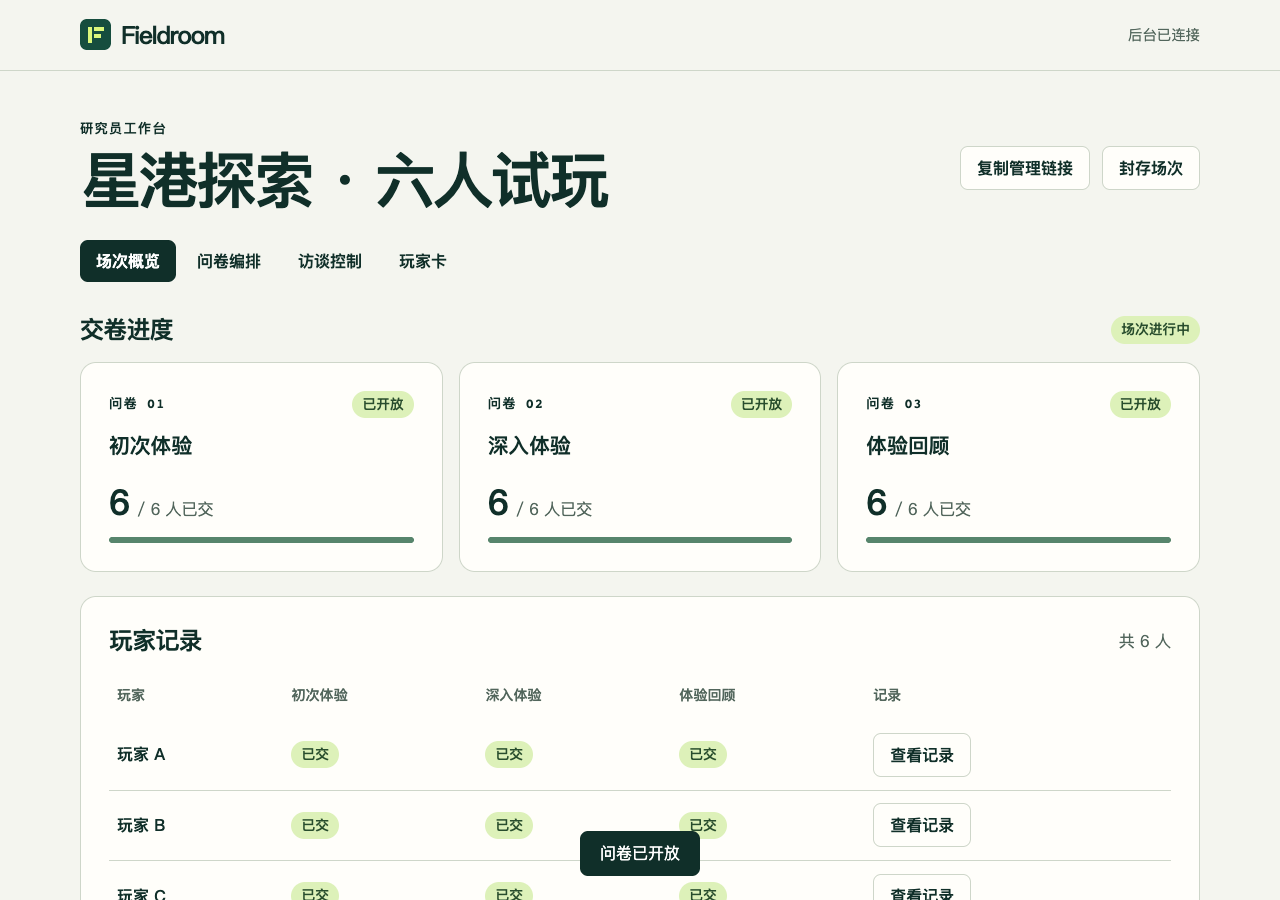
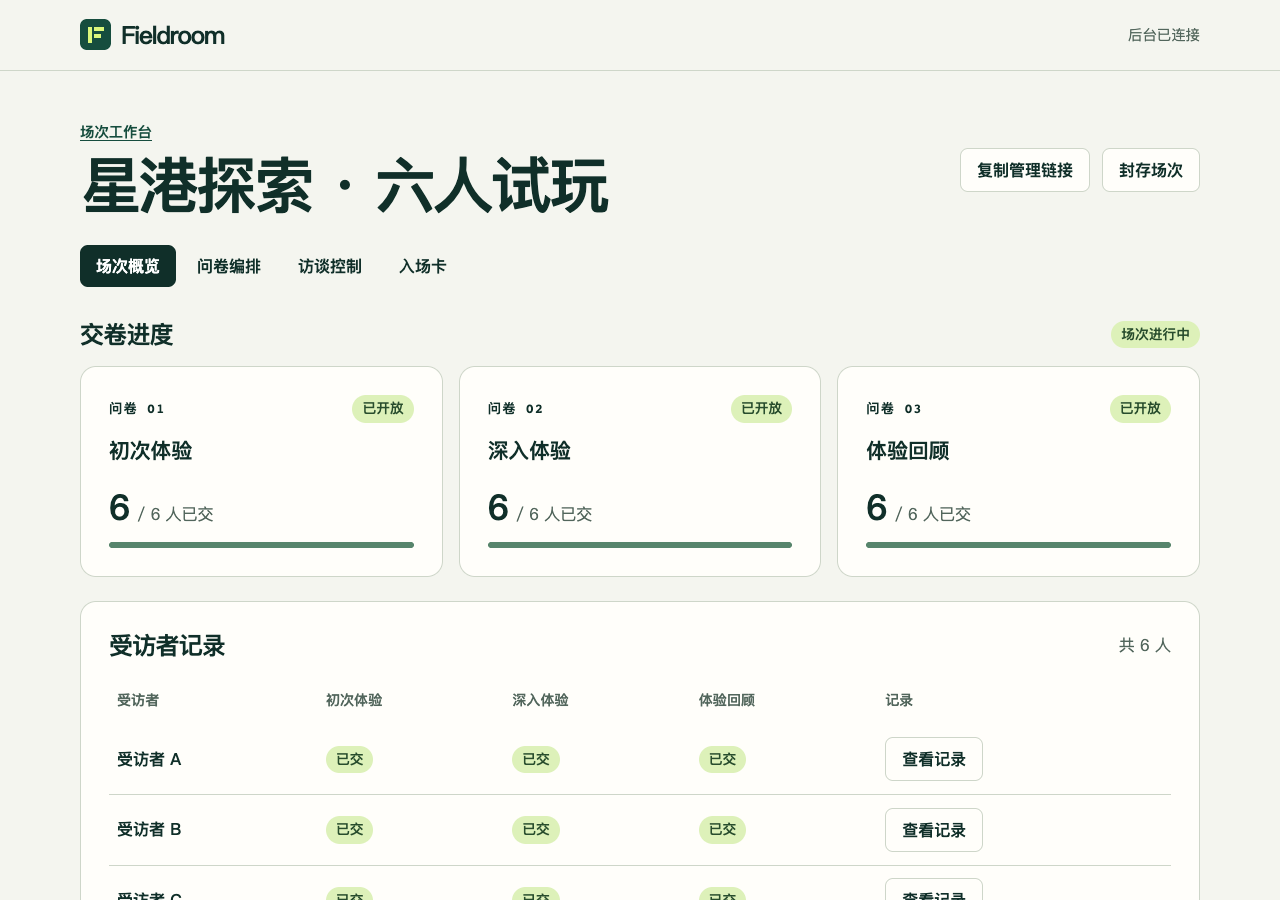
Use participant labels and illustrate field interviews with live case screenshots

diff --git a/static/admin.js b/static/admin.js
@@ -150,7 +150,7 @@ function shell() {
 }
 
 const sections = [
-  ["overview", "场次概览"], ["forms", "问卷编排"], ["interview", "访谈控制"], ["cards", "玩家卡"]
+  ["overview", "场次概览"], ["forms", "问卷编排"], ["interview", "访谈控制"], ["cards", "入场卡"]
 ];
 function render() {
   const room = state.room;
@@ -182,8 +182,8 @@ function overviewView() {
   return `<section class="stack"><div class="section-head"><h2>交卷进度</h2>
     ${statusBadge(sealed ? "场次已封存" : interviews.length ? `${interviews.length} 组访谈进行中` : "场次进行中", !sealed)}</div>
     <div class="progress-grid">${cards}</div></section>
-    <section class="panel admin-section"><div class="section-head"><h2>玩家记录</h2><span class="muted">共 ${players.length} 人</span></div>
-    <div class="table-wrap"><table><thead><tr><th>玩家</th>${forms.map(form => `<th>${escapeHTML(form.title)}</th>`).join("")}<th>记录</th></tr></thead>
+    <section class="panel admin-section"><div class="section-head"><h2>受访者记录</h2><span class="muted">共 ${players.length} 人</span></div>
+    <div class="table-wrap"><table><thead><tr><th>受访者</th>${forms.map(form => `<th>${escapeHTML(form.title)}</th>`).join("")}<th>记录</th></tr></thead>
     <tbody>${rows}</tbody></table></div></section>`;
 }
 function formsView() {
@@ -288,13 +288,13 @@ function interviewView() {
   return directory + `<section class="panel admin-section interview-control"><div class="section-head"><h2>${escapeHTML(caption)}</h2>
     ${group ? actionButton("end","结束访谈") : ""}</div>
     <div class="control-group"><h3>受访者</h3><div class="row target-list">${pickers}</div></div>
-    ${conflicts.length ? `<div class="row"><small>所选玩家中有人已加入其他组。</small>${actionButton("remove-occupied","移除已占用的选择")}</div>` : ""}
+    ${conflicts.length ? `<div class="row"><small>所选受访者中有人已加入其他组。</small>${actionButton("remove-occupied","移除已占用的选择")}</div>` : ""}
     <label class="field">访谈题目<select id="preview-question"${room.sealed || !options ? " disabled" : ""}>
     ${question ? "" : `<option value="" selected>${options ? "请选择题目" : "请先开放一份问卷"}</option>`}${options}</select></label>
     <div class="preview-line"><div><strong>${escapeHTML(progress)}</strong>
     ${missing.length ? `<small>未交卷 · ${escapeHTML(missing.map(p=>p.name).join("、"))}</small>` : ""}</div>
     ${actionButton("show","向受访者展示",{style:"primary",disabled:unavailable})}</div>
-    ${selected.length > 6 ? '<p class="muted">每次访谈最多选择六位玩家。</p>' : ""}</section>
+    ${selected.length > 6 ? '<p class="muted">每次访谈最多选择六位受访者。</p>' : ""}</section>
     ${group ? supplementList(group) : ""}`;
 }
 function supplementList(group) {
@@ -316,15 +316,15 @@ async function endInterview() {
   rememberInterview(null);
   state.previewDirty = false;
   await loadRoom();
-  toast("访谈已结束，玩家可继续填写");
+  toast("访谈已结束，受访者可继续填写");
 }
 function cardsView() {
-  return `<section class="stack"><div class="section-head no-print"><h2>玩家入场卡</h2>${actionButton("print","打印玩家卡")}</div>
-    <p class="muted no-print">让玩家连接场内 Wi-Fi，扫描自己的卡。换机时重新扫码。</p>
+  return `<section class="stack"><div class="section-head no-print"><h2>受访者入场卡</h2>${actionButton("print","打印入场卡")}</div>
+    <p class="muted no-print">让受访者连接场内 Wi-Fi，扫描自己的卡。换机时重新扫码。</p>
     <div id="cards-grid" class="player-cards">${state.room.players.map(p => `<article class="card player-card">
     <p class="eyebrow">${escapeHTML(state.room.title)}</p><h3>${escapeHTML(p.name)}</h3>
     <div class="card-qr" data-qr-for="${escapeHTML(p.id)}" aria-label="${escapeHTML(p.name)}的二维码">二维码生成中…</div>
-    <div class="no-print">${actionButton("copy-player", "复制玩家链接", {value:p.id})}</div></article>`).join("")}</div></section>`;
+    <div class="no-print">${actionButton("copy-player", "复制受访者链接", {value:p.id})}</div></article>`).join("")}</div></section>`;
 }
 async function fillQRCodes() {
   const epoch = ++state.qrEpoch;
@@ -493,7 +493,7 @@ async function showDetail(id) {
 async function showSupplement(id) {
   const live = activeInterview();
   const question = byId(questions(), live?.qid);
-  if (!question || !live.players.includes(id)) throw new Error("访谈题目已更改，请重新选择玩家。");
+  if (!question || !live.players.includes(id)) throw new Error("访谈题目已更改，请重新选择受访者。");
   const p = byId(state.room.players, id);
   const details = await adminRead("/api/manage/player?id=" + encodeURIComponent(id));
   const submitted = details.submitted.includes(question.form.id);

diff --git a/static/app.js b/static/app.js
@@ -11,16 +11,16 @@ function renderHome() {
   document.querySelector('#status').textContent = '研究员工作台';
   app.innerHTML = `<div class="wrap home">
     <section class="intro"><div class="intro-copy"><p class="eyebrow">FIELDROOM / 现场研究室</p>
-      <h1>线下游戏用研<span>场次工作台</span></h1>
-      <p class="lede">在同一 Wi-Fi 下分发问卷、查看玩家答卷，并在访谈中同步展示每个人的回答。</p>
+      <h1>线下用户研究<span>场次工作台</span></h1>
+      <p class="lede">在同一 Wi-Fi 下分发问卷、查看受访者答卷，并在访谈中同步展示每个人的回答。</p>
     </div><div class="specimen" aria-hidden="true">
-      <div class="sheet shadow-sheet"></div><div class="sheet main-sheet"><span class="sheet-head">FIELDROOM <b>玩家 A</b></span>
-      <div class="sheet-lines"><i></i><i></i></div><strong>游玩意愿</strong><div class="mini-scores"><i>1</i><i>2</i><i>3</i><i>4</i><i>5</i></div></div>
+      <div class="sheet shadow-sheet"></div><div class="sheet main-sheet"><span class="sheet-head">FIELDROOM <b>受访者 A</b></span>
+      <div class="sheet-lines"><i></i><i></i></div><strong>使用意愿</strong><div class="mini-scores"><i>1</i><i>2</i><i>3</i><i>4</i><i>5</i></div></div>
     </div></section>
     <div class="home-columns"><section class="panel create-panel"><h2>新建场次</h2>
     <form id="create" class="stack"><label class="field">场次名称<input name="title" placeholder="例如：星港探索 · 首轮试玩" required maxlength="100" autocomplete="off"></label>
-    <label class="field">玩家人数<input name="count" type="number" value="6" min="1" max="200" required></label>
-    <p class="muted hint">每位玩家将获得独立的扫码卡。</p>
+    <label class="field">受访者人数<input name="count" type="number" value="6" min="1" max="200" required></label>
+    <p class="muted hint">每位受访者都有一张自己的入场卡。</p>
     <button class="btn primary" type="submit">创建场次</button></form></section>
     <section class="panel recent-panel"><h2>最近场次</h2>` +
     (recent.length ? recent.map(room => `<a class="recent-item" href="/manage#${encodeURIComponent(room.admin)}"><strong>${esc(room.title)}</strong><small>${esc(room.date)}</small></a>`).join('') :
@@ -50,7 +50,7 @@ try {
     const mod = await import('./' + moduleName + '.js');
     await mod.start();
   } else if (page === '/join') {
-    app.innerHTML = '<section class="panel join"><p class="eyebrow">玩家入口</p><h1>请扫玩家卡</h1><p>用相机扫描自己的二维码，或打开研究员分配的专属链接。</p></section>';
+    app.innerHTML = '<section class="panel join"><p class="eyebrow">受访者入口</p><h1>请扫入场卡</h1><p>用相机扫描自己的二维码，或打开研究员分配的专属链接。</p></section>';
   } else { renderHome(); }
 } catch (error) {
   app.innerHTML = '<div class="wrap"><section class="panel"><h2>暂时无法打开</h2><p>' + esc(error.message) + '</p><button class="btn" id="retry">重新连接</button></section></div>';

diff --git a/static/player.js b/static/player.js
@@ -212,7 +212,7 @@ function heading() {
 }
 
 function tabs() {
-  return '<nav class="player-tabs" aria-label="玩家工作区">' +
+  return '<nav class="player-tabs" aria-label="受访者工作区">' +
     [["form", "我的问卷"], ["notes", "体验问题"]].map(([id, title]) =>
       '<button type="button" data-tab="' + id + '" aria-pressed="' + (view.tab === id) + '">' + title + "</button>"
     ).join("") + "</nav>";

diff --git a/server.py b/server.py
@@ -231,10 +231,14 @@ def question(label, kind, options=None, required=True):
     return dict(id=identifier(), label=label, type=kind, options=options or [], required=required)
 
 
+def participant_suffix(position):
+    return chr(65 + position) if position < 26 else str(position + 1)
+
+
 def create_room(db, data):
     title = short(data.get("title"), "场次名称", 100)
     count = data.get("count", 6)
-    require(type(count) is int and 1 <= count <= 200, "玩家人数需为 1 至 200")
+    require(type(count) is int and 1 <= count <= 200, "受访者人数需为 1 至 200")
     room, admin = identifier(), token()
     db.execute("INSERT INTO rooms(id,admin,title) VALUES(?,?,?)", (room, admin, title))
     forms = [
@@ -266,10 +270,10 @@ def create_room(db, data):
             (identifier(), room, pos, name, dump(questions)),
         )
     for pos in range(count):
-        name = chr(65 + pos) if pos < 26 else str(pos + 1)
+        name = participant_suffix(pos)
         db.execute(
             "INSERT INTO players(id,room,position,name,code) VALUES(?,?,?,?,?)",
-            (identifier(), room, pos, "玩家 " + name, token()),
+            (identifier(), room, pos, "受访者 " + name, token()),
         )
     return {"admin": admin}
 
@@ -373,7 +377,7 @@ def player_record(db, player, *, include_history=False, before_history=None):
 
 def managed_player(db, room, player):
     row = db.execute("SELECT * FROM players WHERE room=? AND id=?", (room, player)).fetchone()
-    require(row, "找不到该玩家", 404)
+    require(row, "找不到该受访者", 404)
     return row
 
 
@@ -414,13 +418,13 @@ def update_interview(db, room, body):
     else:
         form, question = find_question(db, room["id"], body.get("qid"))
         players = body.get("players")
-        require(isinstance(players, list) and 1 <= len(players) <= 6, "每次访谈请选择 1 至 6 位玩家")
+        require(isinstance(players, list) and 1 <= len(players) <= 6, "每次访谈请选择 1 至 6 位受访者")
         require(len(players) == len(set(players)), "请勿重复选择受访者")
         for pid in players:
             managed_player(db, room["id"], pid)
         require(form["open"], "请先开放这份问卷，再展示题目", 409)
         occupied = {pid for group in groups if group is not current for pid in group["players"]}
-        require(occupied.isdisjoint(players), "所选玩家正在另一场访谈，请刷新后重新选择", 409)
+        require(occupied.isdisjoint(players), "所选受访者正在另一场访谈，请刷新后重新选择", 409)
         if current is None:
             current = {"id": identifier()}
             groups.append(current)
@@ -433,6 +437,14 @@ def update_interview(db, room, body):
     return result
 
 
+def participant_label(player):
+    # Older rooms stored the generated role in the name. Keep custom names intact.
+    suffix = participant_suffix(player["position"])
+    if player["name"] == "玩家 " + suffix:
+        return "受访者 " + suffix
+    return player["name"]
+
+
 def manage_state(db, room, base):
     groups = active_interviews(room)
     by_player = {}
@@ -442,7 +454,7 @@ def manage_state(db, room, base):
     ):
         by_player.setdefault(r["player"], []).append(r["form"])
     players = [
-        dict(id=p["id"], name=p["name"], code=p["code"], submitted=by_player.get(p["id"], []))
+        dict(id=p["id"], name=participant_label(p), code=p["code"], submitted=by_player.get(p["id"], []))
         for p in db.execute("SELECT * FROM players WHERE room=? ORDER BY position", (room["id"],))
     ]
     return dict(
@@ -482,7 +494,7 @@ def play_state(db, room, player):
     return dict(
         **data,
         id=player["id"],
-        name=player["name"],
+        name=participant_label(player),
         title=room["title"],
         sealed=bool(room["sealed"]),
         rev=player["rev"],
@@ -723,7 +735,7 @@ def handle(h, method, path, query, body):
             return create_room(db, body)
         if method == "POST" and path == "/api/claim":
             player = db.execute("SELECT * FROM players WHERE code=?", (body.get("code"),)).fetchone()
-            require(player, "玩家卡无效，请重新扫码", 401)
+            require(player, "入场卡无效，请重新扫码", 401)
             device = token()
             db.execute("UPDATE players SET device=? WHERE id=?", (device, player["id"]))
             # Obsolete leases are checked before any replay receipt or write.
@@ -778,7 +790,7 @@ def share_base(bind_host, port):
 
 
 def main():
-    parser = argparse.ArgumentParser(description="本地线下游戏用研问卷平台")
+    parser = argparse.ArgumentParser(description="本地线下用户研究问卷与访谈平台")
     parser.add_argument("--host", default="0.0.0.0", help="默认在局域网提供服务")
     parser.add_argument("--port", type=int, default=8765)
     parser.add_argument("--db", type=Path, default=DEFAULT_DB)

diff --git a/tests/test_service.py b/tests/test_service.py
@@ -112,6 +112,14 @@ class ServiceTests(unittest.TestCase):
         self.play(op="answer", qid=self.choice["id"], value=self.choice["options"][0])
         self.play(op="submit", form=self.form["id"])
 
+    def test_old_generated_names_use_the_current_label_on_both_screens(self):
+        with server.connection(self.db, write=True) as db:
+            db.execute("UPDATE players SET name=? WHERE id=?", ("玩家 A", self.cards[0]["id"]))
+            db.execute("UPDATE players SET name=? WHERE id=?", ("访客小蓝", self.cards[1]["id"]))
+        roster = self.call("/api/manage", key=self.admin)["players"]
+        self.assertEqual([p["name"] for p in roster[:2]], ["受访者 A", "访客小蓝"])
+        self.assertEqual(self.call("/api/play", key=self.key)["name"], "受访者 A")
+
     def test_takeover_invalidates_stale_writes_even_after_reopen(self):
         self.submitted()
         self.play(op="note", id="stable-note", text="虚构草稿", submitted=False)

diff --git a/docs/field-guide.md b/docs/field-guide.md
@@ -1,20 +1,20 @@
 # 现场使用手册
 
 1. **准备。** 新建场次，默认六人。三份问卷各带两道虚构示例题。在「问卷编排」中增删题目、调整顺序、选择题型及必答状态，按现场进度逐份开放。
-2. **分卡。** 在「玩家卡」打印卡片或复制专属链接。研究团队通过「复制管理链接」共用后台。保管好管理链接；当前浏览器的「最近场次」也可返回。
-3. **填答。** 玩家首次完成整份问卷时点「提交问卷」。此后选择或评分点选即保存，文本停笔自动保存。进入「体验问题」可边玩边记，后台区分同步中的草稿和已提交问题。
-4. **访谈。** 在「访谈控制」选受访者和题目，检查已交人数，再点「向受访者展示」。可以邀请一人单访，或同时邀请最多六人。浏览题目或查看玩家记录时，其他设备保持当前页面。
-   同场可并行开组。例如先选择 A 开始单访，再点「新建访谈」，选择 B–F 开始群访。后台列出各组成员和当前题，两位主持人可打开同一管理链接，各自选择一组。展示、追加记录和结束访谈都针对选中的组；已有访谈的玩家会标为占用。
-   玩家在展示页点「回看我的问卷」会打开当前题所在的问卷，也可切换到其他已开放问卷。点「返回访谈」即可重新跟题；主持人切到另一道题时，设备会先同步修改再跟过去。关闭页面后可重新打开原卡链接。
-5. **收尾。** 「结束访谈」让玩家继续原来的填写。所有访谈结束后，「封存场次」让整场只读，研究员可重新开放。随时在「场次概览 → 查看记录」回看答案、随手记、作答历史及访谈补充。
+2. **分卡。** 在「入场卡」打印卡片或复制专属链接。研究团队通过「复制管理链接」共用后台。保管好管理链接；当前浏览器的「最近场次」也可返回。
+3. **填答。** 受访者首次完成整份问卷时点「提交问卷」。此后选择或评分点选即保存，文本停笔自动保存。进入「体验问题」可边玩边记，后台区分同步中的草稿和已提交问题。
+4. **访谈。** 在「访谈控制」选受访者和题目，检查已交人数，再点「向受访者展示」。可以邀请一人单访，或同时邀请最多六人。浏览题目或查看受访者记录时，其他设备保持当前页面。
+   同场可并行开组。例如先选择 A 开始单访，再点「新建访谈」，选择 B–F 开始群访。后台列出各组成员和当前题，两位主持人可打开同一管理链接，各自选择一组。展示、追加记录和结束访谈都针对选中的组；已有访谈的受访者会标为占用。
+   受访者在展示页点「回看我的问卷」会打开当前题所在的问卷，也可切换到其他已开放问卷。点「返回访谈」即可重新跟题；主持人切到另一道题时，设备会先同步修改再跟过去。关闭页面后可重新打开原卡链接。
+5. **收尾。** 「结束访谈」让受访者继续原来的填写。所有访谈结束后，「封存场次」让整场只读，研究员可重新开放。随时在「场次概览 → 查看记录」回看答案、随手记、作答历史及访谈补充。
 
 ## 已确认的现场规则
 
 | 情况 | 行为 |
 |---|---|
-| 临时切题 | 受访设备先把待写内容同步成功，再展示题目和本人最近提交、保存的答案。没有交该卷的玩家显示「暂无已提交答案」。|
-| 玩家改答案 | 玩家可直接更改已交答案。后台保留当时的题目、版本、值和时间。选项固定单选，评分使用 1 至 5，开放文本可设为必答或选填。|
-| 访谈中改口 | 主持人按玩家和题目追加新评分及原因，或只记录解释。玩家显示的问卷答案由玩家的作答决定。|
+| 临时切题 | 受访设备先把待写内容同步成功，再展示题目和本人最近提交、保存的答案。没有交该卷的受访者显示「暂无已提交答案」。|
+| 受访者改答案 | 受访者可直接更改已交答案。后台保留当时的题目、版本、值和时间。选项固定单选，评分使用 1 至 5，开放文本可设为必答或选填。|
+| 访谈中改口 | 主持人按受访者和题目追加新评分及原因，或只记录解释。受访者显示的问卷答案由受访者的作答决定。|
 | 现场改题 | 已开放的问卷仍可编辑；已交时的题干、选项和答案保存在快照中，多人同时编辑同一问卷会提示版本冲突。|
 | 临时换机 | 用原卡在新设备扫码接手，恢复已上传的内容及当前访谈。旧设备在线时回到扫码页，离线旧设备重连时失去写入权限。|
 | 临时断网 | 已打开页面的待发操作保存在当前标签页，恢复连接后补传。完全离线时首次加载网页需要等网络恢复。未同步的内容只能在原标签页恢复；换机以主机已收到的内容为准。|

diff --git a/docs/acceptance.md b/docs/acceptance.md
@@ -1,16 +1,16 @@
 # 首版验收
 
-2026-11-21 在 macOS、Python 3.14、桌面 Chrome 157 上运行。题目、场次和玩家均为虚构。研究员使用单独的管理会话，六位玩家分别使用隔离浏览器上下文，换机时另开第七个玩家上下文。
+2026-11-21 在 macOS、Python 3.14、桌面 Chrome 157 上运行。题目、场次和受访者均为虚构。研究员使用单独的管理会话，六位受访者分别使用隔离浏览器上下文，换机时另开第七个受访者上下文。
 
 | 检查 | 实测结果 |
 |---|---|
-| 分卡与交卷 | 从页面上渲染的六张二维码逐张解码，其地址分别进入 A–F 六位玩家的会话。研究员逐份开放，六人共交 18 份问卷、提交 6 条体验问题。后台三份均显示 6/6。 |
+| 分卡与交卷 | 从页面上渲染的六张二维码逐张解码，其地址分别进入 A–F 六位受访者的会话。研究员逐份开放，六人共交 18 份问卷、提交 6 条体验问题。后台三份均显示 6/6。 |
 | 跨卷群访 | 先向六人展示第三份问卷中的题目，再跳到第一份的「你有多愿意再玩一局？」。A–F 设备分别显示 2、4、3、5、1、4。 |
-| 玩家自行回看 | A 在群访中打开当前题所属问卷，看到已交的 2 分；刷新仍保留回看位置，另外五人继续跟题。A 可自行返回访谈，也可切到其他问卷修改文字。主持人切题后展示同步后的新文字，结束访谈后仍能回看。 |
+| 受访者自行回看 | A 在群访中打开当前题所属问卷，看到已交的 2 分；刷新仍保留回看位置，另外五人继续跟题。A 可自行返回访谈，也可切到其他问卷修改文字。主持人切题后展示同步后的新文字，结束访谈后仍能回看。 |
 | 同场并行访谈 | 两个独立主持人页面共用同一管理链接。A 单访、B–F 五人群访同时展示不同题目。任一后台可查看两组成员和当前题；单访切题后群访继续原题。结束单访时 A 回到答卷，群访仍可继续切题。两组均结束后可封存场次。 |
-| 单访与未交卷 | 单独选中尚未交卷的玩家时，该玩家显示「暂无已提交答案」，未选中的设备仍停在填写页。 |
+| 单访与未交卷 | 单独选中尚未交卷的受访者时，该受访者显示「暂无已提交答案」，未选中的设备仍停在填写页。 |
 | 访谈补充 | A 口头改为 4 分，主持人追加原因。后台出现补充，A 的答卷仍为 2 分。 |
-| 自然保存 | 玩家写到一半时触发访谈，草稿同步后才跳题。结束访谈后恢复原文字和输入位置。阻断写请求再刷新，恢复网络后仍能补传。中文输入法流程使用合成浏览器事件验证。 |
+| 自然保存 | 受访者写到一半时触发访谈，草稿同步后才跳题。结束访谈后恢复原文字和输入位置。阻断写请求再刷新，恢复网络后仍能补传。中文输入法流程使用合成浏览器事件验证。 |
 | 换机与旧草稿 | A 的旧设备断网并产生未同步的 1 分。新设备用原卡进入正在进行的访谈，取回已保存的 2 分及答卷，之后直接改为 5 分。旧设备重连退出，后台保持 5 分并保留原记录。 |
 | 收场 | 结束访谈后仍可填改；封存后问卷只读。重新开放后，原卡恢复编辑。 |
 | 后台编辑 | 验证新增、移除、调序及修改已开放题目，两名管理者同时编辑时识别冲突；原题快照与删除前的已交答案可回看。已用超过 50 条的修改历史验证翻页。 |
@@ -18,10 +18,10 @@
 
 六人浏览器流程可按[开发文档里的步骤](development.md#重跑验收)重跑。服务回归覆盖设备权限、跨场次隔离、写入重试、历史与分页、未交访谈、校验和分享地址选择。额外的同机请求测量使用六个并发客户端，每种接口 60 个请求。已有 10,002 条历史记录时，版本检查、个人状态和后台单人详情的第 95 百分位分别约为 3、4、12 毫秒。此项只测本机服务响应，现场同步还受局域网、浏览器调度和约一秒的版本检查间隔影响。
 
-额外用 200 名虚构玩家组成 40 组并行访谈。切换其中一组后，另 39 组各抽查一名玩家，状态版本和展示题均保持原值。
+额外用 200 名虚构受访者组成 40 组并行访谈。切换其中一组后，另 39 组各抽查一名受访者，状态版本和展示题均保持原值。
 
 ![研究员可在两组进行中的访谈间切换](parallel-interviews.png)
 
 ![三份问卷各有六人交卷](session-overview.png)
 
-![手机尺寸浏览器显示玩家 A 自己的 2 分](player-interview.png)
+![手机尺寸浏览器显示受访者 A 自己的 2 分](player-interview.png)

diff --git a/README.md b/README.md
@@ -1,19 +1,35 @@
 # Fieldroom · 现场研究室
 
-Fieldroom 是给线下游戏试玩用的问卷和访谈工具。玩家玩完一局，扫自己的卡填问卷；研究员马上能看到谁交了、每个人答了什么。聊到某道题时，主持人点一下，每位受访玩家的屏幕上就会出现**那道题和自己填的答案**。
+![Fieldroom 首页封面：线下用户研究场次工作台](docs/cover.png)
 
-## 一场六人试玩怎么用？
+Fieldroom 给做线下用户研究的人用。受访者用手机扫自己的卡，体验一轮，填一份问卷。研究员能马上看到谁交了、每个人写了什么。到了访谈环节，主持人选一道题，每个人的屏幕上都会出现**同一道题和自己当时的回答**。
 
-1. **开场前**，研究员准备三份问卷。可以让玩家选一个选项、打 1 到 5 分，或者写几句话。六位玩家各领一张卡，手机、平板和电脑都能打开自己的问卷。
-2. **试玩时**，第一局结束就开放第一份问卷。玩家交完继续玩，碰到问题可以随手记，比如“第二局没找到换武器的入口”。到了下一轮，研究员再开放第二、三份问卷。中途换手机，扫原来的卡就能找回已保存的答案。
-3. **访谈时**，主持人可以跳回第一份问卷，问“你有多愿意再玩一局？”A 的屏幕上显示自己给的 2 分，B 看到自己给的 4 分。如果 A 说“现在我想给 4 分了”，主持人可以把新评分和原因记在 A 名下，旁边仍能查到原来的 2 分。A 也可以点「回看我的问卷」，翻看自己当时写了什么。
+## 游戏试玩：同样玩了一局，为什么一个人给 2 分，另一个给 4 分？
 
-同一场试玩可以分开聊。比如一位主持人单独问 A，另一位同时和 B–F 做群访。后台能看到两组各自在聊哪道题，每组可以自己切题、自己结束。
+六位玩家试玩《星港探索》。第一局结束后，研究员开放第一份问卷；玩家交完继续玩，遇到问题可以随手记。中途换手机，扫原来的卡就能找回已保存的答案。
+
+访谈时，主持人跳回「你有多愿意再玩一局？」。A 看见自己给的 2 分，B 看见自己的 4 分。如果 A 说“第二局弄懂连招以后，我想改给 4 分”，主持人可以把这句话记在 A 名下，以后还能查到最初的 2 分。
+
+| A 的屏幕 | B 的屏幕 |
+| --- | --- |
+| ![受访者 A 在游玩意愿题上看到自己的 2 分](docs/player-interview.png) | ![受访者 B 在同一道题上看到自己的 4 分](docs/participant-b.png) |
+
+也可以分开聊。下面这场里，一位主持人单独问 A 为什么只给了 2 分，另一位请 B–F 聊最想再体验哪个环节。点进任意一组就能给这组切题或结束访谈。
+
+![主持人后台同时列出 A 的单访、B–F 的群访，以及两组正在聊的题目](docs/parallel-interviews.png)
+
+## 自助点单机：顾客是在哪一步卡住的？
+
+请受访者试着点一杯半糖饮料，点完问一句：“不问店员，你能找到调整甜度的地方吗？”这位受访者选了“找了一会儿”，又写下自己先点了饮品图片。研究员可以接着问：“你点图片时，原本期待看到什么？”
+
+<img src="docs/kiosk-survey.png" width="520" alt="点单体验问卷的已交答卷，显示受访者 A 选择了“找了一会儿”，并写下寻找甜度选项的经过">
+
+以上截图来自用虚构题目和受访者跑通的本地场次。
 
 ## 怎么开始？
 
-把 Fieldroom 跑在研究员的一台电脑上，玩家设备连同一个 Wi-Fi。启动后，在这台电脑上打开工作台，创建一个六人场次，里面就有三份可以直接试填的示例问卷。答卷保存在运行 Fieldroom 的电脑上。
+在研究员的电脑上启动 Fieldroom，让手机、平板或其他电脑连同一个 Wi-Fi。在工作台创建场次，就有三份游戏试玩示例问卷。可以直接试填，也可以把题目换成自己的。答卷保存在运行 Fieldroom 的电脑上。
 
-[第一次安装和启动（macOS、Windows、Linux）](docs/setup.md) · [已启动，打开本机工作台](http://127.0.0.1:8765)
+[安装和启动](docs/setup.md) · [已启动，打开本机工作台](http://127.0.0.1:8765) · [现场使用手册](docs/field-guide.md)
 
-现场怎么发卡、改题和封存，见[现场使用手册](docs/field-guide.md)。想接着开发，可以看[代码和测试说明](docs/development.md)以及[六人试玩验收记录](docs/acceptance.md)。
+想接着开发，可以看[代码和测试说明](docs/development.md)以及[六人试玩验收记录](docs/acceptance.md)。

diff --git a/docs/development.md b/docs/development.md
@@ -2,9 +2,9 @@
 
 ## 数据放在哪里
 
-服务用 SQLite 保存场次，默认路径为 `data/fieldroom.sqlite3`，也可通过 `--db` 指定。管理链接可查看整场并修改设置，玩家链接可接管该玩家设备。将链接只给对应人员，使用可信的现场局域网。本版使用 HTTP，适合本机或受控局域网环境。扫码与分享均在本地生成。
+服务用 SQLite 保存场次，默认路径为 `data/fieldroom.sqlite3`，也可通过 `--db` 指定。管理链接可查看整场并修改设置，受访者链接可接管该受访者设备。将链接只给对应人员，使用可信的现场局域网。本版使用 HTTP，适合本机或受控局域网环境。扫码与分享均在本地生成。
 
-管理码与玩家码采用随机值，通过 URL 片段分发；服务端验证管理权限或当前设备权限。客户端临时保存自己的设备会话、待同步输入和当前位置。运行数据库、环境文件、日志和依赖目录均已加入 Git 忽略规则。需要备份时先停止服务，再复制完整的 `data/` 目录。
+管理码与受访者码采用随机值，通过 URL 片段分发；服务端验证管理权限或当前设备权限。客户端临时保存自己的设备会话、待同步输入和当前位置。运行数据库、环境文件、日志和依赖目录均已加入 Git 忽略规则。需要备份时先停止服务，再复制完整的 `data/` 目录。
 
 ## 开发入口
 
@@ -12,12 +12,12 @@
 |---|---|
 | `server.py` | HTTP 接口、SQLite 事务、设备接管、权限校验、作答历史及本地二维码 |
 | `static/app.js`、`static/common.js` | 首页、页面路由、请求与错误反馈 |
-| `static/admin.js` | 管理后台、编辑器、进度、受访者选择、玩家卡 |
-| `static/player.js` | 玩家填答、输入暂存、重试、访谈跟题 |
+| `static/admin.js` | 管理后台、编辑器、进度、受访者选择、入场卡 |
+| `static/player.js` | 受访者填答、输入暂存、重试、访谈跟题 |
 | `tests/test_service.py` | 权限范围、并发重试、快照、历史分页等服务回归 |
 | `tests/six-players.cjs` | 真实浏览器六人测试，含二维码解码、换机及断网恢复 |
 
-后台和玩家端轮询轻量版本号。有变化才读取本端状态；后台单人历史按页加载。玩家写入使用设备权限和唯一操作编号，数据库在同一事务中验证设备、处理重试并保存答案。
+后台和受访者端轮询轻量版本号。有变化才读取本端状态；后台单人历史按页加载。受访者写入使用设备权限和唯一操作编号，数据库在同一事务中验证设备、处理重试并保存答案。
 
 交互参考了 SurveyJS 在值变化时保存并恢复答题位置的做法，以及 Mentimeter 在主持人展示时控制参与设备节奏的做法。实现使用独立的本地服务和浏览器代码。[SurveyJS v1.12.5 源码](https://github.com/surveyjs/survey-library/blob/94b97333c9ee4ba0b07200a8451268e1c7043ec7/packages/survey-core/src/survey.ts) · [Mentimeter 主持人节奏说明](https://help.mentimeter.com/en/articles/410899-how-the-presentation-mode-affects-your-menti-live)
 

diff --git a/docs/setup.md b/docs/setup.md
@@ -1,6 +1,6 @@
 # 在研究员的电脑上启动 Fieldroom
 
-在研究员的电脑上安装 Git 和 Python 3.9 或更高版本。玩家和其他主持人用浏览器打开各自的链接即可。
+在研究员的电脑上安装 Git 和 Python 3.9 或更高版本。受访者和其他主持人用浏览器打开各自的链接即可。
 
 ## macOS 或 Linux
 
